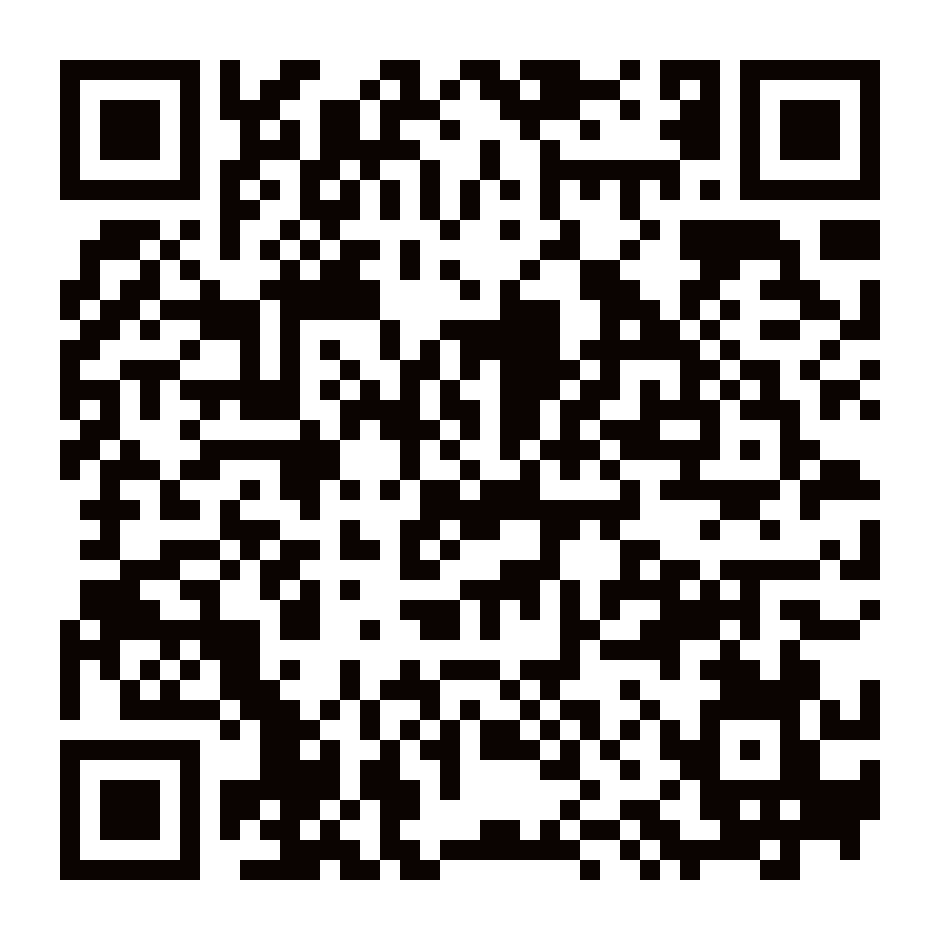
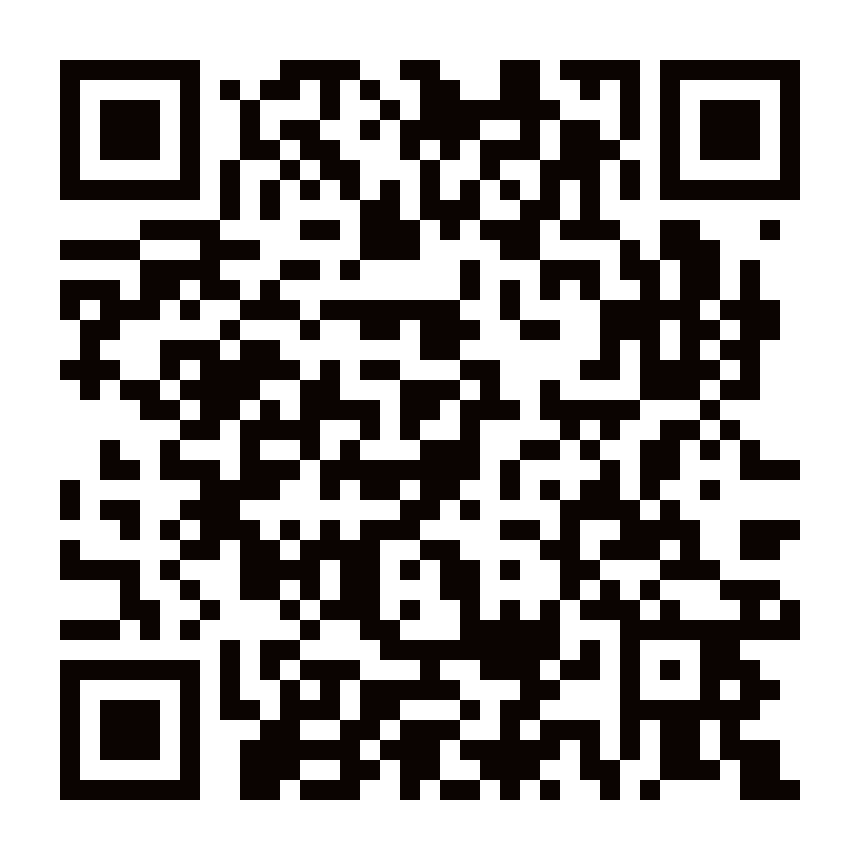
Update canonical URLs, sitemap, robots.txt, and QR codes to live Vercel domain https://shirdibooking-com.vercel.app/

diff --git a/book.html b/book.html
@@ -9,11 +9,11 @@
 <meta name="theme-color" content="#0B0401">
 <meta name="robots" content="index, follow, max-image-preview:large, max-snippet:-1, max-video-preview:-1">
 <meta name="googlebot" content="index, follow, max-snippet:-1, max-image-preview:large">
-<link rel="canonical" href="https://sujitkarad.github.io/Shirdibooking.com/book.html">
+<link rel="canonical" href="https://shirdibooking-com.vercel.app/book.html">
 
 <!-- Open Graph / WhatsApp Meta Tags -->
 <meta property="og:type" content="website">
-<meta property="og:url" content="https://sujitkarad.github.io/Shirdibooking.com/book.html">
+<meta property="og:url" content="https://shirdibooking-com.vercel.app/book.html">
 <meta property="og:site_name" content="Mahadev Auto Service Shirdi">
 <meta property="og:title" content="Mahadev Baburao Karad Auto Service – Shirdi Auto & Darshan Tours">
 <meta property="og:description" content="Safe, honest & reliable auto rickshaw service in Shirdi for Sai Baba devotees. Book instantly on WhatsApp 9307062992.">

diff --git a/index.html b/index.html
@@ -9,11 +9,11 @@
 <meta name="theme-color" content="#0B0401">
 <meta name="robots" content="index, follow, max-image-preview:large, max-snippet:-1, max-video-preview:-1">
 <meta name="googlebot" content="index, follow, max-snippet:-1, max-image-preview:large">
-<link rel="canonical" href="https://sujitkarad.github.io/Shirdibooking.com/">
+<link rel="canonical" href="https://shirdibooking-com.vercel.app/">
 
 <!-- Open Graph / WhatsApp Meta Tags -->
 <meta property="og:type" content="website">
-<meta property="og:url" content="https://sujitkarad.github.io/Shirdibooking.com/">
+<meta property="og:url" content="https://shirdibooking-com.vercel.app/">
 <meta property="og:site_name" content="Mahadev Auto Service Shirdi">
 <meta property="og:title" content="Mahadev Baburao Karad Auto Service – Shirdi Auto & Darshan Tours">
 <meta property="og:description" content="Safe, honest & reliable auto rickshaw service in Shirdi for Sai Baba devotees. Book instantly on WhatsApp 9307062992.">

diff --git a/qr.html b/qr.html
@@ -296,7 +296,7 @@
         🛺 Local Rides • 🕌 Full Darshan Tour • ✈ Airport & Station Pickup • 🏨 Hotel Help
       </div>
       <div style="font-size: 0.78rem; margin-top: 0.4rem; opacity: 0.8;">
-        Website: sujitkarad.github.io/Shirdibooking.com
+        Website: shirdibooking-com.vercel.app
       </div>
     </div>
   </div>
